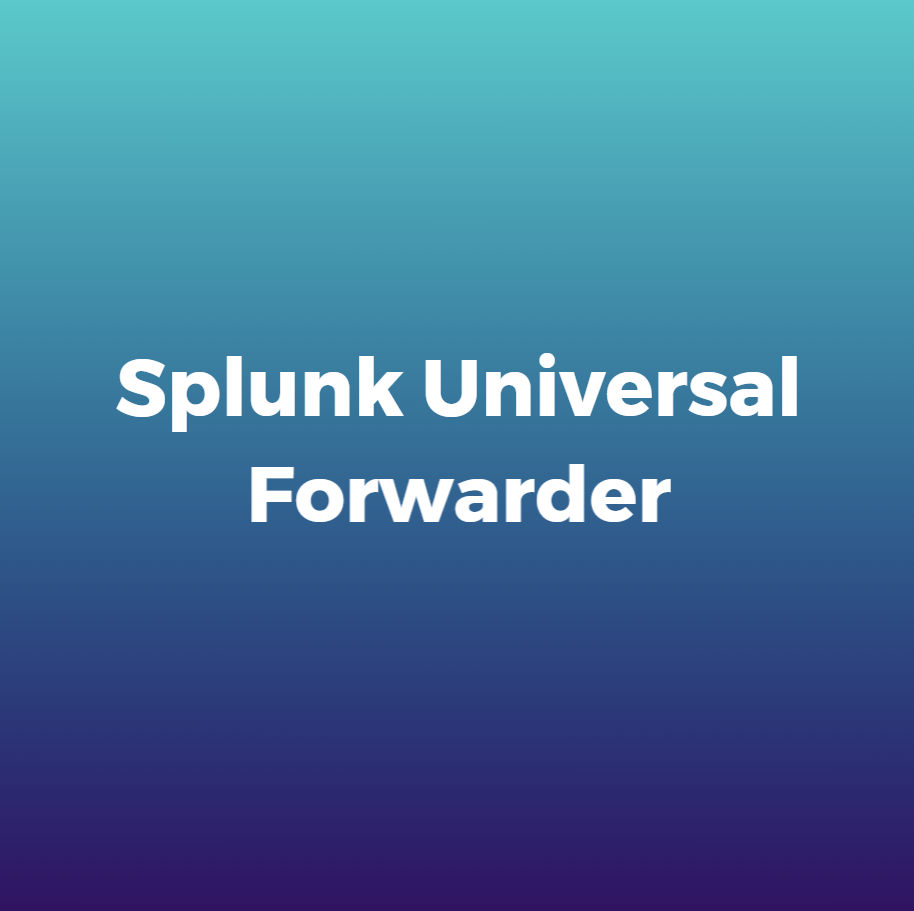
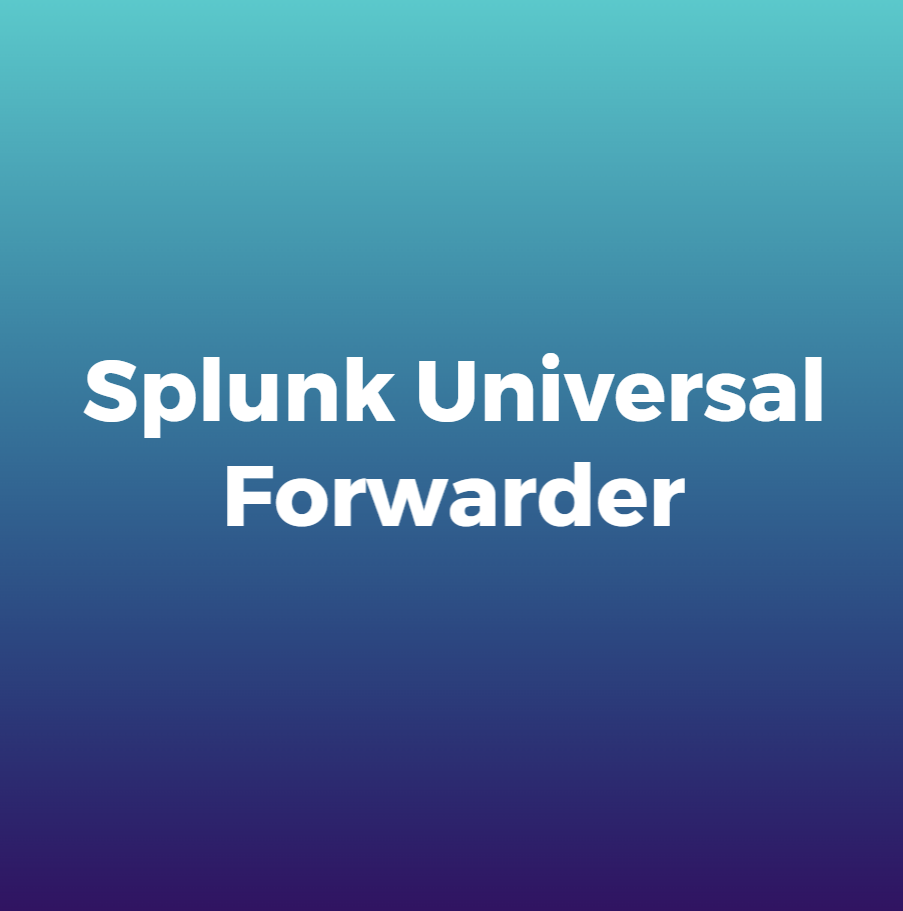
initial commit

Changed region(s): [[0.2481, 0.4918, 0.7752, 0.584], [0.4651, 0.3688, 0.9302, 0.461], [0.093, 0.3688, 0.4341, 0.4918]]

diff --git a/_posts/Tutorials/SIEM_Tutorial/2024-09-29-SIEM_Tutorial_Part_3.md b/_posts/Tutorials/SIEM_Tutorial/2024-09-29-SIEM_Tutorial_Part_3.md
@@ -2,7 +2,7 @@
 title: "SIEM Tutorial - Part 3"
 classes: wide
 header:
-  teaser: /assets/images/tutorials/SIEM_Tutorial/Part_3/Splunk_Forwarder_3.png
+  teaser: /assets/images/tutorials/SIEM_Tutorial/Part_3/Splunk_Forwarder_2.png
 ribbon: red
 description: "Hello, in part 2, we covered what Splunk is, its components, explored its interface, and solve a small piece of the `botsv3` dataset. Today, we are going to dive into another functionality in Splunk."
 categories:
@@ -10,7 +10,7 @@ categories:
 toc: false
 ---
 
-<img src="/assets/images/tutorials/SIEM_Tutorial/Part_3/Splunk_Forwarder_3.png" alt="SIEM" style="zoom: 67%;" />
+<img src="/assets/images/tutorials/SIEM_Tutorial/Part_3/Splunk_Forwarder_2.png" alt="SIEM" style="zoom: 67%;" />
 
 # SIEM Solutions - Part 3
 
